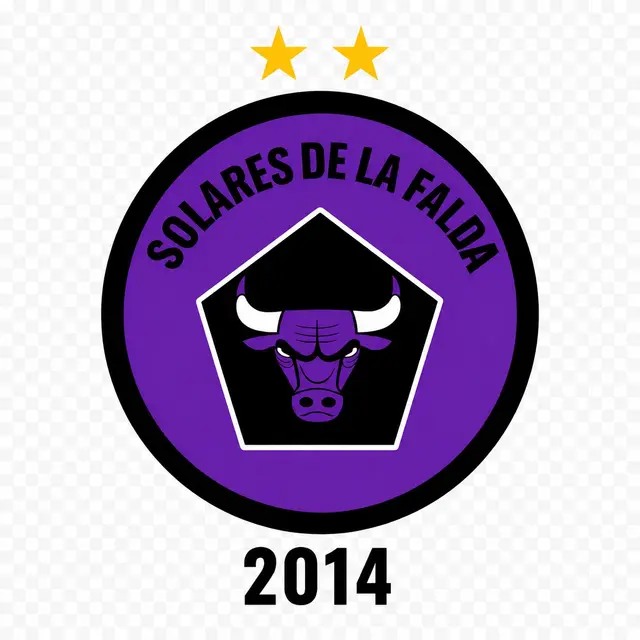
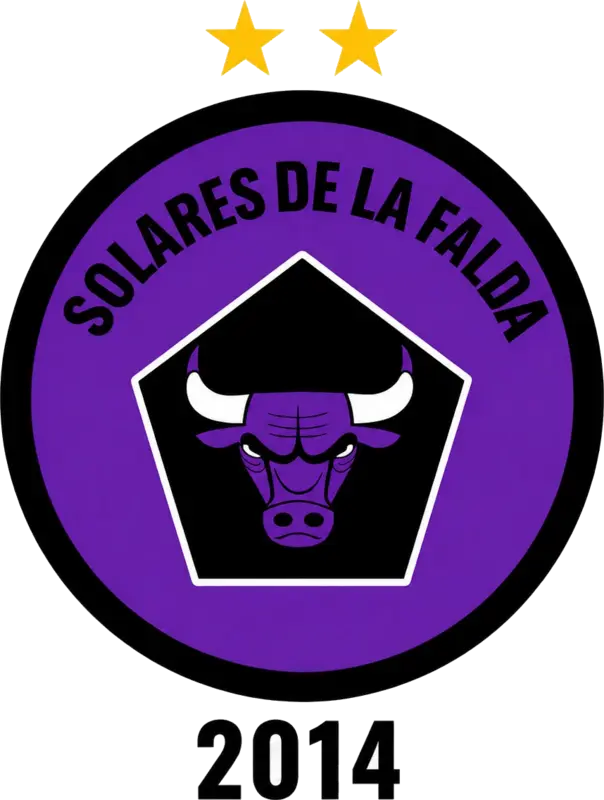
feat(crests): convert every crest to a transparent png

diff --git a/src/data/crests.ts b/src/data/crests.ts
@@ -1,15 +1,15 @@
 import type { Crest } from '@/types/brand'
 import { invariant } from '@/lib/invariant'
 
-import crest1Jpg from '@/assets/solares/crests/crest-1.jpg'
+import crest1Png from '@/assets/solares/crests/crest-1.png'
 import crest1Webp from '@/assets/solares/crests/crest-1.webp'
-import crest2Jpg from '@/assets/solares/crests/crest-2.jpg'
+import crest2Png from '@/assets/solares/crests/crest-2.png'
 import crest2Webp from '@/assets/solares/crests/crest-2.webp'
-import crest3Jpg from '@/assets/solares/crests/crest-3.jpg'
+import crest3Png from '@/assets/solares/crests/crest-3.png'
 import crest3Webp from '@/assets/solares/crests/crest-3.webp'
-import crest4Jpg from '@/assets/solares/crests/crest-4.jpg'
+import crest4Png from '@/assets/solares/crests/crest-4.png'
 import crest4Webp from '@/assets/solares/crests/crest-4.webp'
-import crest5Jpg from '@/assets/solares/crests/crest-5.jpg'
+import crest5Png from '@/assets/solares/crests/crest-5.png'
 import crest5Webp from '@/assets/solares/crests/crest-5.webp'
 
 export const crests: readonly Crest[] = [
@@ -18,10 +18,10 @@ export const crests: readonly Crest[] = [
     stageLabel: 'Primera etapa',
     isCurrent: false,
     image: {
-      src: crest1Jpg,
+      src: crest1Png,
       webp: crest1Webp,
-      width: 640,
-      height: 640,
+      width: 688,
+      height: 708,
       alt: 'Escudo de Solares con la letra S en verde y una franja amarilla.',
     },
   },
@@ -30,10 +30,10 @@ export const crests: readonly Crest[] = [
     stageLabel: 'Segunda etapa',
     isCurrent: false,
     image: {
-      src: crest2Jpg,
+      src: crest2Png,
       webp: crest2Webp,
-      width: 500,
-      height: 500,
+      width: 458,
+      height: 395,
       alt: 'Escudo de Solares con forma de hexágono amarillo y negro con una cabeza de animal.',
     },
   },
@@ -42,10 +42,10 @@ export const crests: readonly Crest[] = [
     stageLabel: 'Tercera etapa',
     isCurrent: false,
     image: {
-      src: crest3Jpg,
+      src: crest3Png,
       webp: crest3Webp,
-      width: 640,
-      height: 640,
+      width: 782,
+      height: 800,
       alt: 'Escudo circular violeta de Solares de la Falda con una cabeza de toro.',
     },
   },
@@ -54,10 +54,10 @@ export const crests: readonly Crest[] = [
     stageLabel: 'Cuarta etapa',
     isCurrent: false,
     image: {
-      src: crest4Jpg,
+      src: crest4Png,
       webp: crest4Webp,
-      width: 640,
-      height: 640,
+      width: 604,
+      height: 800,
       alt: 'Escudo circular violeta de Solares de la Falda con dos estrellas y el año 2014.',
     },
   },
@@ -66,10 +66,10 @@ export const crests: readonly Crest[] = [
     stageLabel: 'Escudo actual',
     isCurrent: true,
     image: {
-      src: crest5Jpg,
+      src: crest5Png,
       webp: crest5Webp,
-      width: 414,
-      height: 485,
+      width: 395,
+      height: 439,
       alt: 'Escudo actual de Solares: un escudo violeta con una cabeza de toro, dos estrellas y laureles dorados.',
     },
   },
